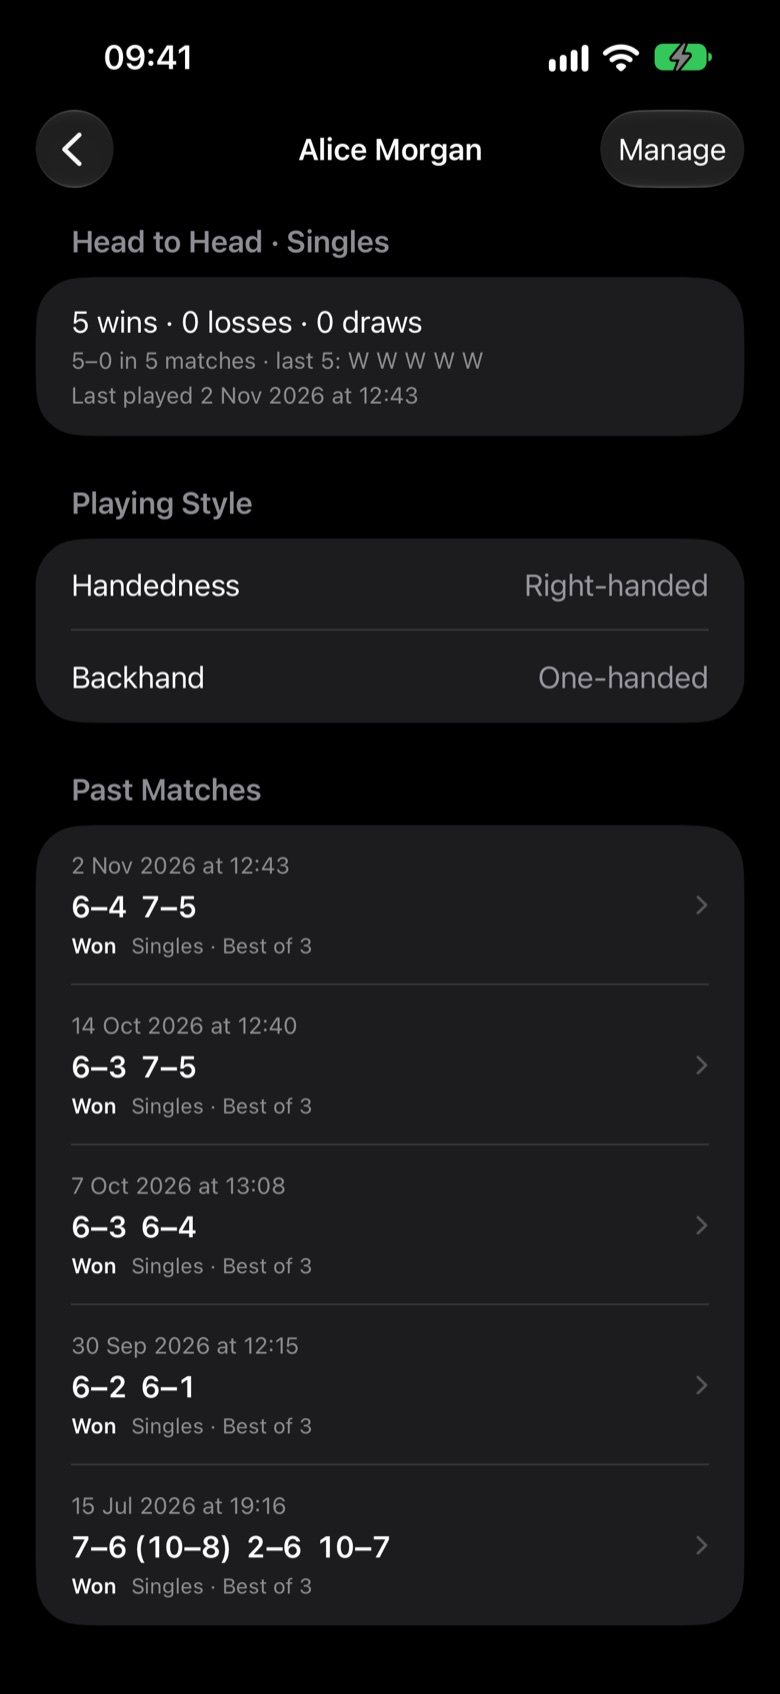
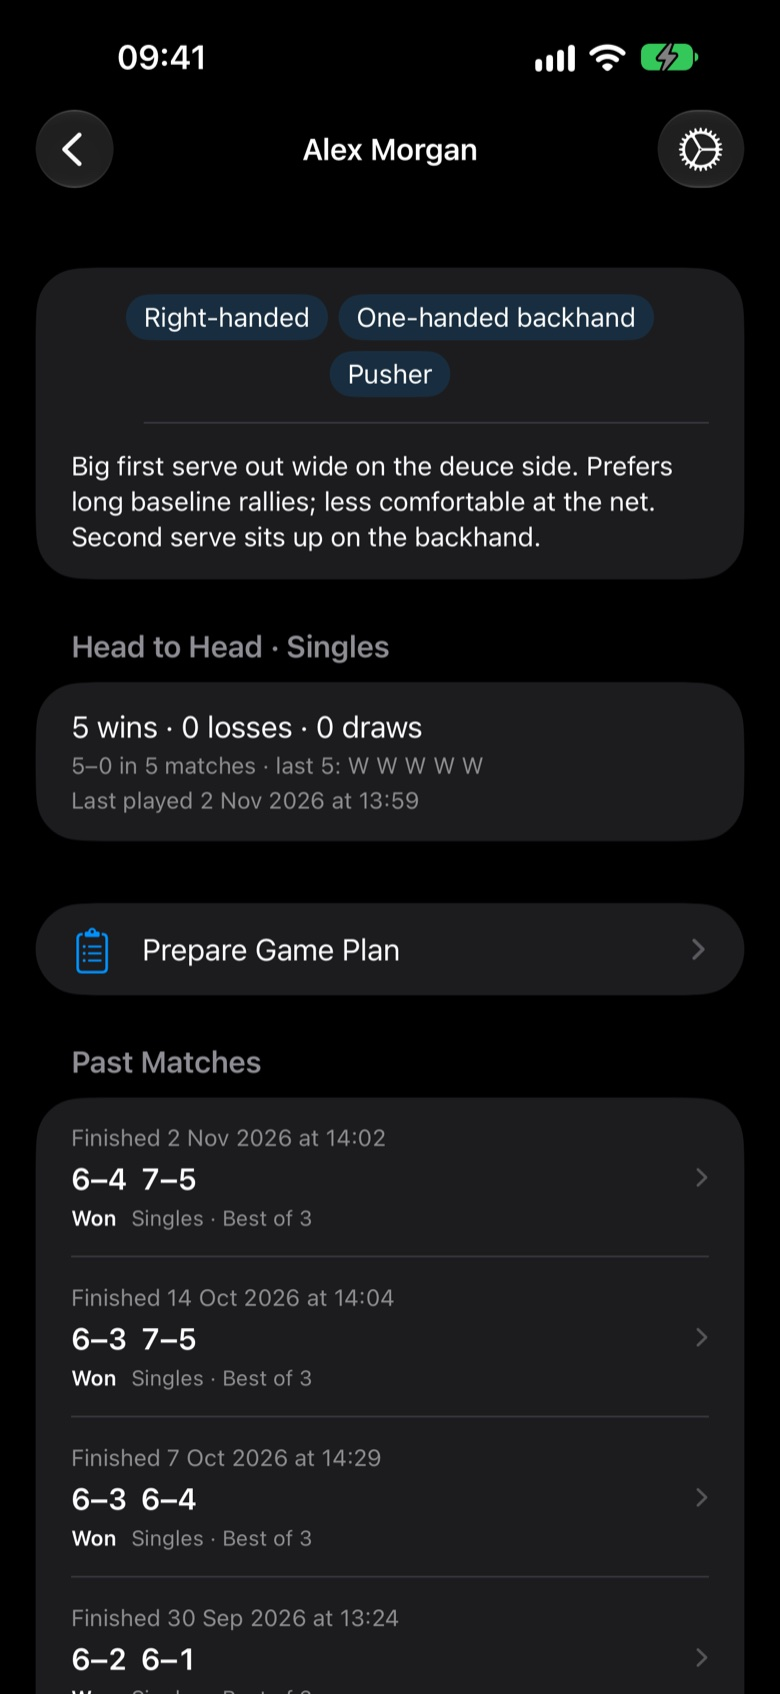
[Web] Show Game Plan and playing-style notes on the site and README
1.4.0's headline feature wasn't mentioned anywhere public. The homepage gets a
Game Plan feature after Trends, the support page a key-feature line and FAQ, and
the README a "Plan the next one" gallery row plus features for Game Plan,
playing-style notes and "Your name". The opponent-page image is recaptured for
the condensed playing-style card. Both new captures are dark, from a sanitized
archive.

Held with the privacy policy until 1.4.0 is approved: docs/website/ is live on
merge.

diff --git a/docs/website/support.html b/docs/website/support.html
@@ -105,6 +105,7 @@
           <li><strong>iPhone live scoreboard</strong> <span>— mirrors the watch in real time over Apple's WatchConnectivity.</span></li>
           <li><strong>Spoken score announcements (iPhone)</strong> <span>— umpire-style calls while the app is open on screen. Keep DeuceMate in the foreground courtside; announcements pause if the phone is locked or the app is in the background. Routes through the iPhone speaker or a connected Bluetooth speaker.</span></li>
           <li><strong>Statistics &amp; coaching insights</strong> <span>— serve, return, break points, winners/errors, pressure points, rally depth, and an interactive points graph.</span></li>
+          <li><strong>Opponents &amp; Game Plan</strong> <span>— add who you played, note how each player plays, see your head-to-head record, and prepare a game plan for your next match against them.</span></li>
           <li><strong>Optional fitness tracking</strong> <span>— link a HealthKit workout for live heart rate, calories, steps, distance, and heart-rate-zone stats. Entirely optional.</span></li>
           <li><strong>Optional Court Compass</strong> <span>— "Check Changeover" reads the watch's compass heading (no GPS, no location tracking) to show which end to take.</span></li>
         </ul>
@@ -151,6 +152,7 @@
           </ul>
           This is a manual file you control, and is separate from the automatic archive DeuceMate keeps in your personal iCloud Drive.</div></details>
         <details class="faq reveal"><summary>Can I share a match with someone who doesn't have DeuceMate?<span class="plus" aria-hidden="true"></span></summary><div class="body">Yes. From a match's detail view, the Share menu's <strong>Interactive Web Page</strong> exports the whole match as a single self-contained <code>.html</code> file. It opens in any web browser — on a phone, tablet, or computer — with the momentum chart, the full you-vs-opponent stats (with Stats/Points tabs and per-set filters), a point-by-point list, and a built-in AI-coach launcher. The file works completely offline and uploads nothing; you choose who to send it to. (If a file preview can't run scripts — like the iPhone's Quick Look — it still shows a full static report; open it in a browser for the interactive version.)</div></details>
+        <details class="faq reveal"><summary>What is Prepare Game Plan?<span class="plus" aria-hidden="true"></span></summary><div class="body">On iPhone, open <strong>Opponents</strong> on the Matches screen, choose a player and tap <strong>Prepare Game Plan</strong>. DeuceMate collects what your recorded singles matches against that player show, ready to copy, share as a file, or paste into the AI app you choose. It opens set up from your last match against them; if that match is unfinished, the plan is for finishing it. Player names and your playing style notes are included unless you switch them off; private match notes are added only if you switch them on and confirm their exact text. Health data is never included, and DeuceMate never sends the plan anywhere itself.</div></details>
         <details class="faq reveal"><summary>Does it work for doubles?<span class="plus" aria-hidden="true"></span></summary><div class="body">Yes — singles and doubles are both supported, with full four-player service rotation in doubles.</div></details>
         <details class="faq reveal"><summary>Can I use it for padel?<span class="plus" aria-hidden="true"></span></summary><div class="body">Yes. Padel uses the same game/set scoring structure as tennis, so DeuceMate keeps score for padel too (tennis-only rule tips won't all apply).</div></details>
         <details class="faq reveal"><summary>Are there subscriptions or in-app purchases?<span class="plus" aria-hidden="true"></span></summary><div class="body">No. DeuceMate is completely free — no subscriptions, no in-app purchases, and no ads.</div></details>

diff --git a/docs/website/index.html b/docs/website/index.html
@@ -310,6 +310,27 @@
           </div>
         </div>
       </div>
+
+      <!-- Feature 6 — Game Plan for the next match -->
+      <div class="feature flip reveal">
+        <div class="feature-body">
+          <span class="eyebrow">On iPhone · Game Plan</span>
+          <h2>Know them before you play them.</h2>
+          <p class="lede">Playing someone you've met before? Open their page and tap Prepare Game Plan. DeuceMate gathers what your matches against them show, ready for the AI app you choose.</p>
+          <ul class="flist">
+            <li><strong>Ready when it opens</strong> <span>— set up from your last match against them, or for finishing it if it's unfinished.</span></li>
+            <li><strong>Your own scouting notes</strong> <span>— note how each player serves and plays, and the plan uses them.</span></li>
+            <li><strong>You decide what goes in</strong> <span>— names and notes can be switched off, private notes only go in if you add them, and DeuceMate never sends it anywhere.</span></li>
+          </ul>
+        </div>
+        <div class="feature-media">
+          <div class="phone glow-blue">
+            <img src="screenshots/22-game-plan.jpg"
+                 alt="Prepare Game Plan on iPhone: the upcoming match, the last five matches against the opponent and what is included, above Copy Prompt and Share Evidence File."
+                 loading="lazy" width="780" height="1694">
+          </div>
+        </div>
+      </div>
     </div>
   </section>
 

diff --git a/README.md b/README.md
@@ -31,9 +31,15 @@ DeuceMate is a lightweight, native Apple Watch app for scoring tennis matches in
 
 ### See the pattern
 
-| <img src="docs/readme/trends.jpg" width="260" alt="Trends filters above charts of errors and serve performance"> | <img src="docs/readme/head-to-head.jpg" width="260" alt="Head-to-head record, playing style and past matches for one opponent"> | <img src="docs/readme/compare.jpg" width="260" alt="Match rates compared with the previous match against the same opponent"> |
-|:--:|:--:|:--:|
-| **Know what's improving and what's slipping.** | **Your record against every opponent.** | **See what changed since you last played them.** |
+| <img src="docs/readme/trends.jpg" width="260" alt="Trends filters above charts of errors and serve performance"> | <img src="docs/readme/compare.jpg" width="260" alt="Match rates compared with the previous match against the same opponent"> |
+|:--:|:--:|
+| **Know what's improving and what's slipping.** | **See what changed since you last played them.** |
+
+### Plan the next one
+
+| <img src="docs/readme/head-to-head.jpg" width="260" alt="An opponent's page: playing style chips and notes, head-to-head record, Prepare Game Plan and past matches"> | <img src="docs/readme/game-plan.jpg" width="260" alt="Prepare Game Plan: the upcoming match, the matches it draws on and what it includes, ready to copy or share"> |
+|:--:|:--:|
+| **Your record and notes on every opponent.** | **A game plan for your next match against them.** |
 
 ### Get coached, then share it
 
@@ -77,7 +83,9 @@ This project also showcases my ability to ship production-quality native iOS/wat
 - **Point outcome tracking** — tag every point with a cause and ending shot to unlock serve, return, break-point, pressure, rally-depth, and score-state analytics, filterable per set or whole match.
 - **Coaching insights** — Coaching Insights (up to three ranked observations per match) and PulseCoach (heart-rate-correlated insights), plus an interactive points-momentum graph with HR and steps overlays.
 - **Performance trends** — charts across your matches show what is improving and what is slipping, filterable by window, match type, format, competition type, and opponent.
-- **Match details and opponents** — add players, competition type, and a private note to any match, see your head-to-head record against each opponent, and compare a match with your previous one against them.
+- **Match details and opponents** — add players, competition type, and a private note to any match, keep playing-style notes on each player, see your head-to-head record against each opponent, and compare a match with your previous one against them.
+- **Prepare Game Plan** — from an opponent's page, gather what your singles matches against them show into a pack ready for the AI app you choose, set up from your last match against them (or for finishing it, if unfinished). Names and playing-style notes can be switched off, private notes go in only by opt-in, and DeuceMate never sends it anywhere itself.
+- **Your name** — optionally name yourself as the recorder in reports and AI prompts, with a shorter name for spoken announcements.
 - **AI coaching exports** — one tap builds a structured coaching prompt (including the raw point-by-point table) for ChatGPT, Claude, Gemini, and others, with a dual perspective mode so your opponent gets coached too.
 - **Shareable interactive web report** — export any match as a single self-contained HTML page (momentum chart with toggleable outcome/shot scatter, the full Me-vs-opponent stats with Stats/Points tabs and per-set filters, and a built-in AI-coach launcher) that opens in any browser, fully offline — no app, account, or server.
 - **Health & fitness** — optional HealthKit workout with live heart rate, calories, steps, distance, and per-set timers.

diff --git a/docs/screenshots/README.md b/docs/screenshots/README.md
@@ -41,6 +41,7 @@ shots so the gallery feels cohesive; only `06-themes.png` shows multiple themes.
 | 19 | `19-coaching-insights.jpg` | Website hero's result step: **Coaching Insights** above Pulse Coach. Copy of `docs/readme/coaching-insights.jpg` (the website can't load from outside its published folder), so recapture both together. |
 | 20 | `20-watch-tag-point.jpg` | Website hero's tagging step: the Watch **won-point sheet**. Copy of `docs/readme/watch-tag-point.jpg`, at that capture's 416×496 size. |
 | 21 | `21-trends.jpg` | Website **Trends** feature: filters above the Errors and Serve & Return charts. Copy of `docs/readme/trends.jpg`. |
+| 22 | `22-game-plan.jpg` | Website **Game Plan** feature: Prepare Game Plan as it opens. Copy of `docs/readme/game-plan.jpg`. |
 
 > **15–18 are manual captures** (see "Manual-only shots" below) — the automation
 > drives a live match, not the start screen, the setup sheet, or a set boundary.
@@ -252,6 +253,14 @@ is the same capture as `docs/readme/pulse-zones.jpg`.
    share sheet has no Messages or contacts to show.
 5. **Build:** `docs/readme/source/build.sh <iphone-dir> <watch-dir>
    <insights.png> <safari.png>`. It crops off Safari's address bar.
+6. **Game Plan (1.4.0):** run `ScreenshotTests/test_captureGamePlanScreens` on
+   the same dark simulator, with `TEST_RUNNER_DEUCEMATE_OPPONENT_NAME` set to
+   the most-played singles opponent. Export its `10-game-plan.png` with
+   `sips -s format jpeg -s formatOptions 84 --resampleWidth 780` to
+   `docs/readme/game-plan.jpg`, and copy that to
+   `docs/website/screenshots/22-game-plan.jpg`. Its `09-opponent-head-to-head.png`
+   can stand in for `readme-head-to-head.png`; both were taken this way on
+   19 November 2026.
 
 A simulator has no heart rate or calories, so the Watch crops keep only the score
 rows and the tag sheet. The hero's Watch is the physical-device capture `04`.
